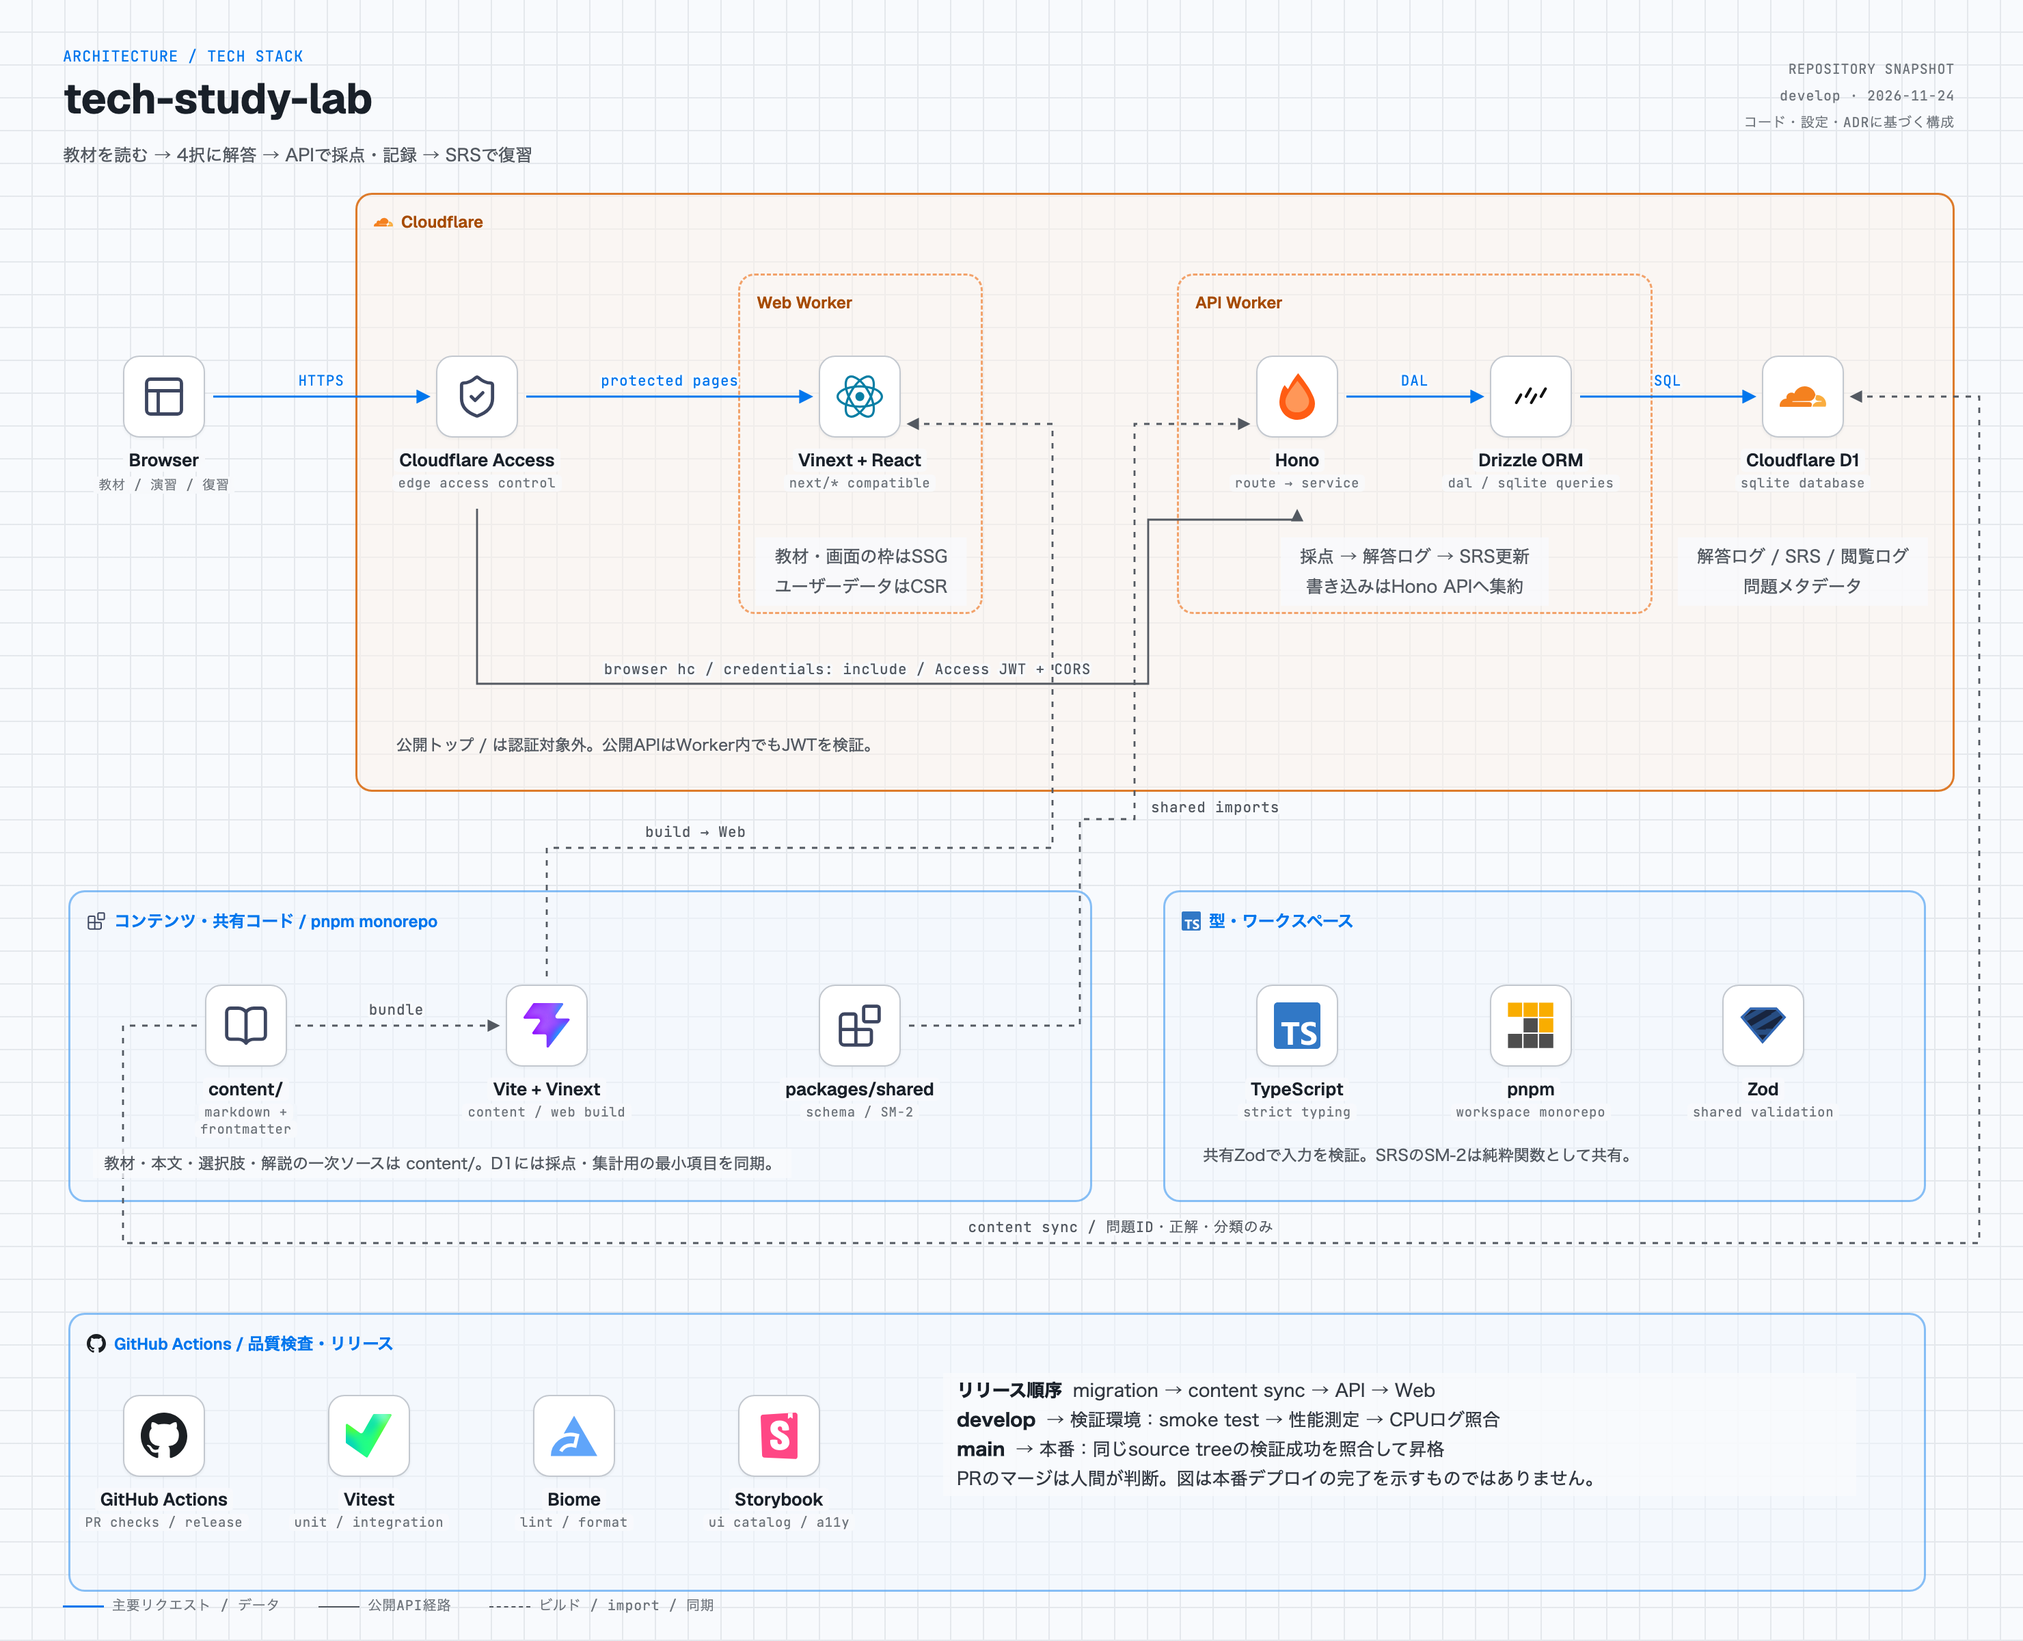
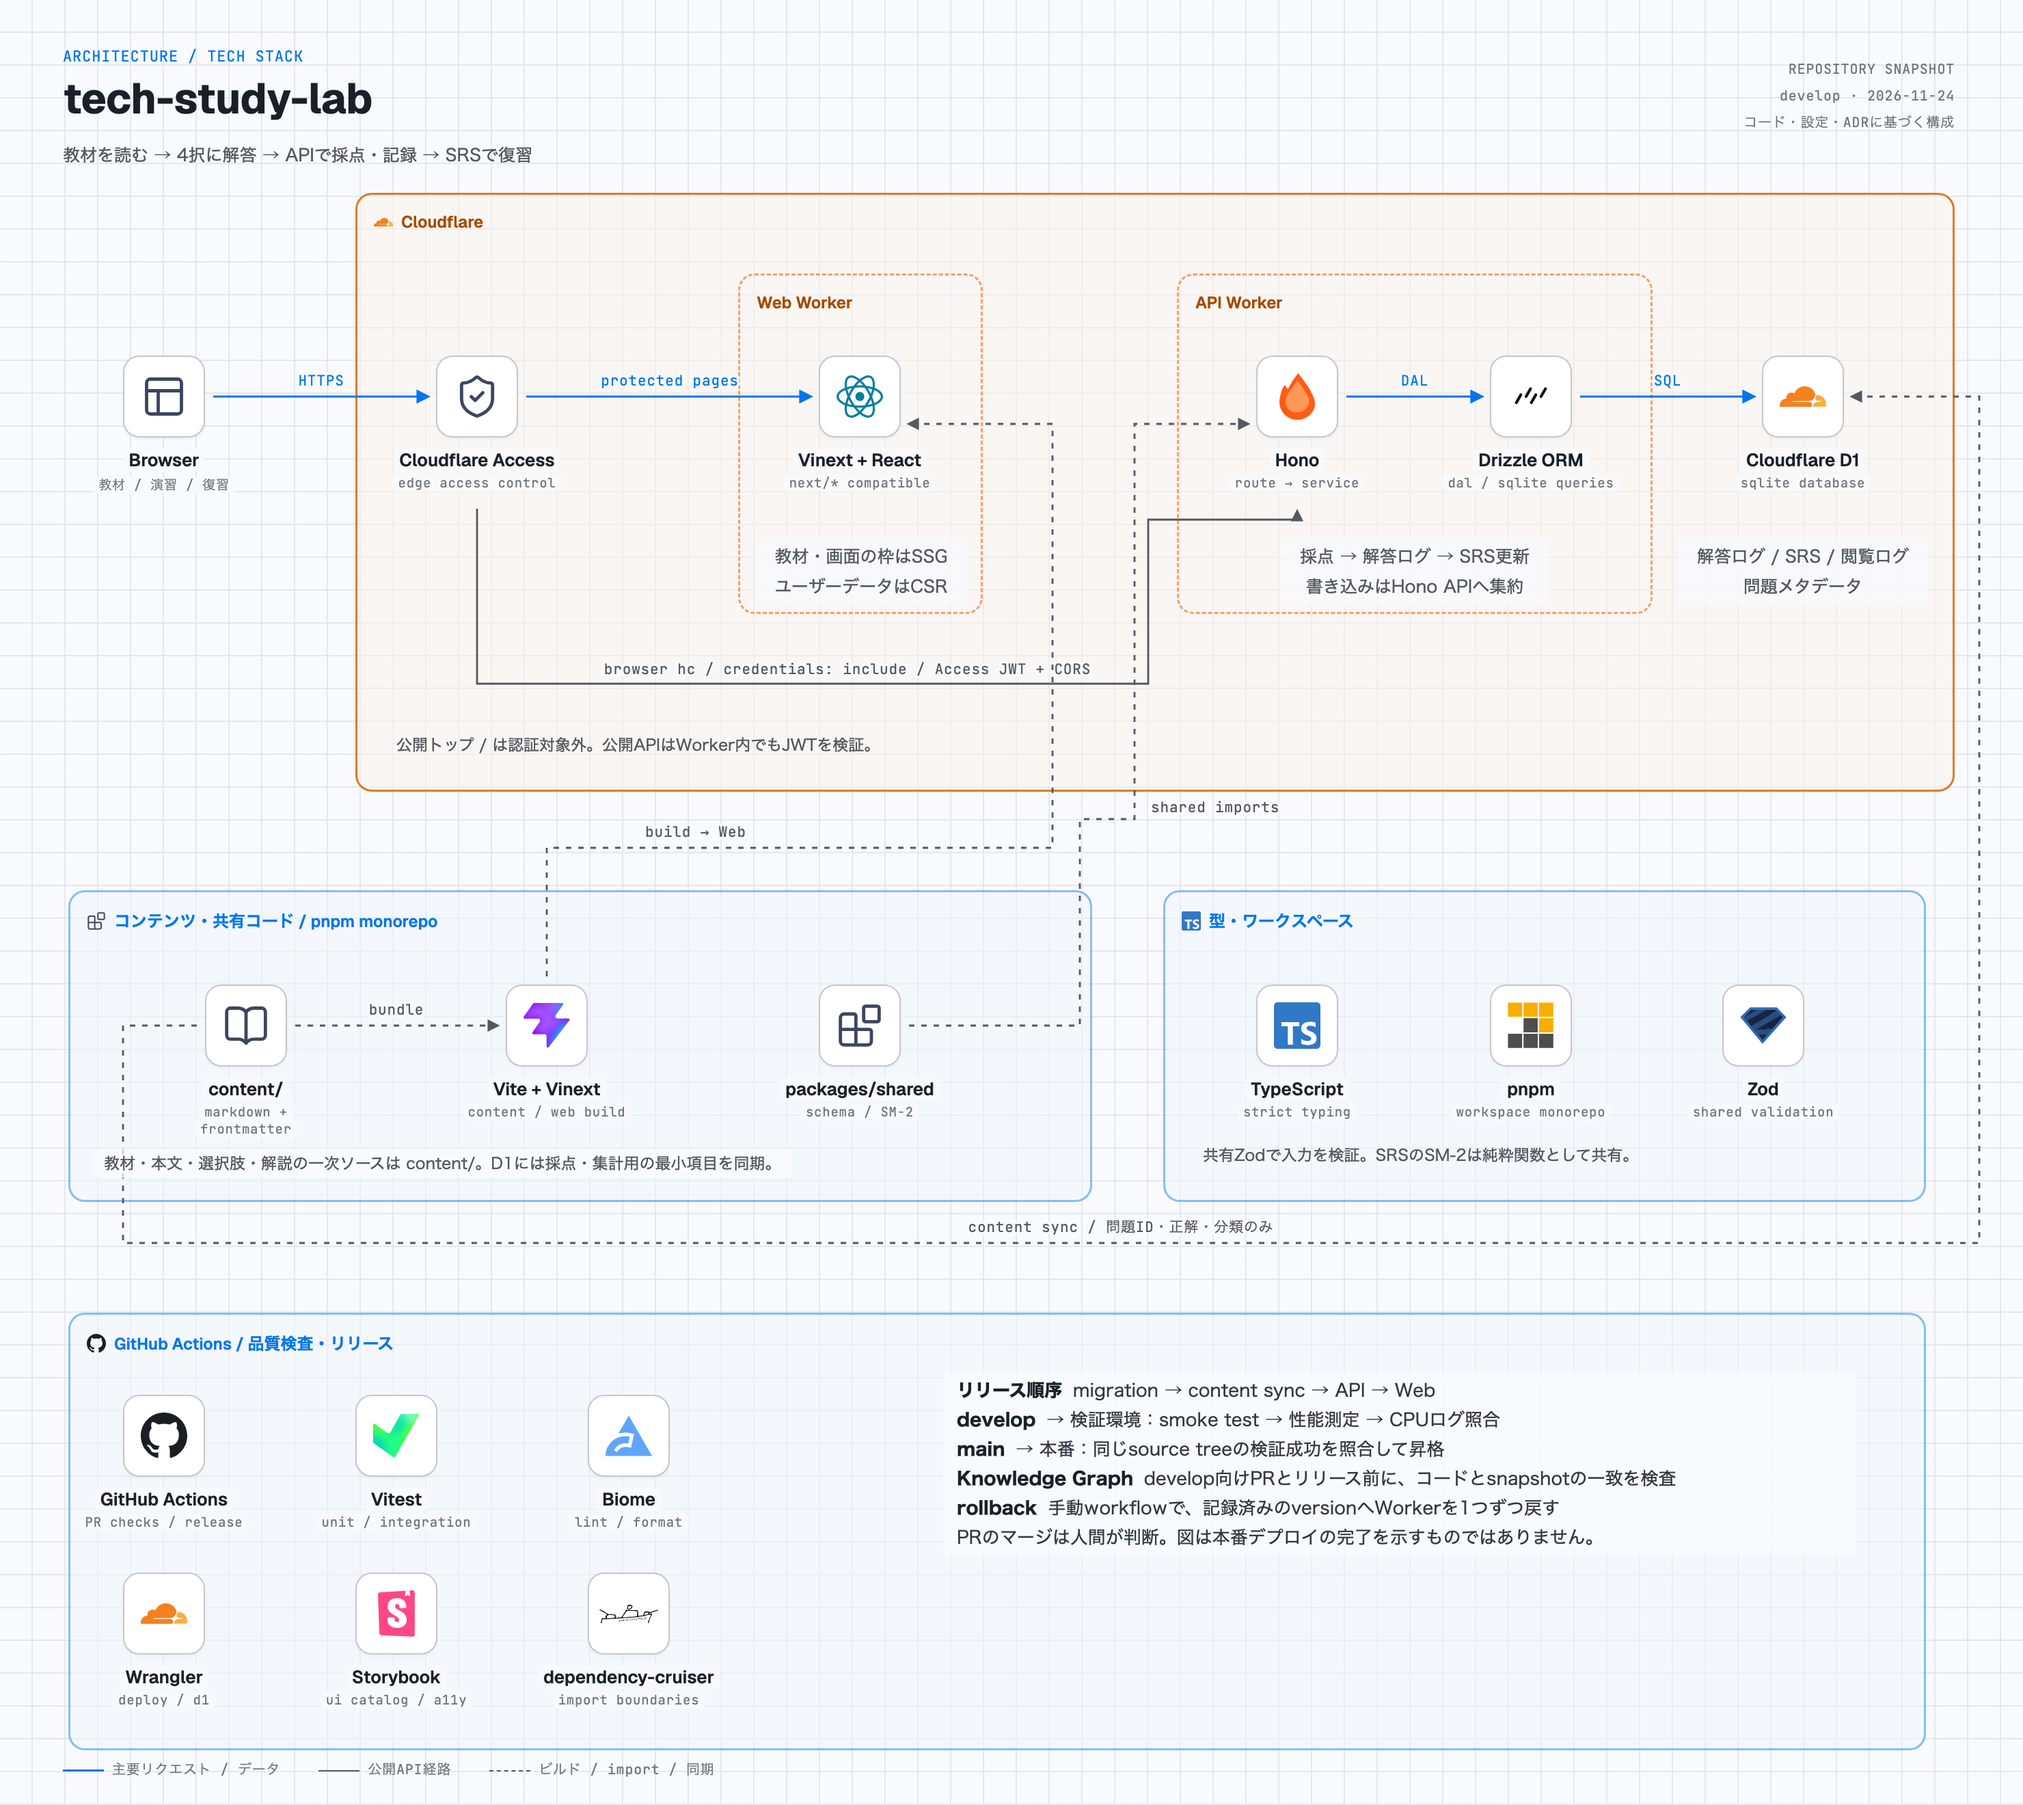
docs: README のアーキテクチャ図に GitHub Actions で実行する dependency-cruiser・Wrangler・Knowledge Graph・rollback を追加する (refs #318)
- dependency-cruiser（pnpm lint の import 境界検査）と Wrangler（deploy・D1・rollback）をノードとして追加し、品質検査グループを2段にした
- リリース手順に Knowledge Graph の検査と rollback workflow の行を追加

diff --git a/docs/images/readme/architecture.html b/docs/images/readme/architecture.html
@@ -82,7 +82,7 @@ h1 { font-family: var(--font-display); font-weight: 700; font-size: clamp(22px, 
 
 .scroller { overflow-x: auto; border: 1px solid var(--color-rule-2); border-radius: var(--radius-card); }
 /* CANVAS SIZE: set width/height here AND on svg.edges AND its viewBox — keep the three in sync */
-.canvas { position: relative; width: 1480px; height: 1200px; background: var(--color-paper);
+.canvas { position: relative; width: 1480px; height: 1320px; background: var(--color-paper);
   background-image:
     linear-gradient(var(--color-rule) 1px, transparent 1px),
     linear-gradient(90deg, var(--color-rule) 1px, transparent 1px);
@@ -133,7 +133,7 @@ h1 { font-family: var(--font-display); font-weight: 700; font-size: clamp(22px, 
 .node .name span, .node .role span { background: var(--color-veil); backdrop-filter: blur(1.5px);
   padding: 0 var(--space-xs); border-radius: 3px; -webkit-box-decoration-break: clone; box-decoration-break: clone; }
 
-svg.edges { position:absolute; inset:0; width:1480px; height:1200px; pointer-events:none; }
+svg.edges { position:absolute; inset:0; width:1480px; height:1320px; pointer-events:none; }
 .e  { stroke: var(--color-accent); stroke-width:1.6; fill:none; }   /* primary flow */
 .n  { stroke: var(--color-neutral); stroke-width:1.4; fill:none; }  /* internal */
 path.aws { stroke: var(--color-ink); stroke-width:1.6; fill:none; }
@@ -165,7 +165,7 @@ path.aws { stroke: var(--color-ink); stroke-width:1.6; fill:none; }
 .note.box { background: var(--color-veil); padding:2px 8px; }
 .release  { position:absolute; left:690px; top:1004px; width:668px; font-size:13px; line-height:21.5px; color: var(--color-ink-2); background: var(--color-veil); padding:2px 10px; }
 .release b { font-weight:700; color: var(--color-ink); margin-right:.6em; }
-.c-legend { position:absolute; left:46px; top:1166px; display:flex; gap:28px; font-family: var(--font-mono); font-size:10px; letter-spacing:.04em; color: var(--color-muted); align-items:center; }
+.c-legend { position:absolute; left:46px; top:1286px; display:flex; gap:28px; font-family: var(--font-mono); font-size:10px; letter-spacing:.04em; color: var(--color-muted); align-items:center; }
 .c-legend .sw { display:inline-block; width:30px; vertical-align:middle; margin-right:6px; border-top:1.6px solid var(--color-accent); }
 .c-legend .sw.n { border-color: var(--color-neutral); border-top-width:1.4px; }
 .c-legend .sw.dash { border-top-style:dashed; }
@@ -198,12 +198,12 @@ path.aws { stroke: var(--color-ink); stroke-width:1.6; fill:none; }
     <div class="group gb" style="left:851px; top:651px; width:558px; height:228px;">
[1 lines of base64/hex data omitted]
     </div>
-    <div class="group gb" style="left:50px; top:960px; width:1359px; height:204px;">
+    <div class="group gb" style="left:50px; top:960px; width:1359px; height:320px;">
[1 lines of base64/hex data omitted]
     </div>
 
     <!-- EDGES -->
-    <svg class="edges" viewBox="0 0 1480 1200" aria-hidden="true">
+    <svg class="edges" viewBox="0 0 1480 1320" aria-hidden="true">
       <defs>
         <marker id="ar" viewBox="0 0 10 10" refX="8" refY="5" markerWidth="6.5" markerHeight="6.5" orient="auto-start-reverse">
           <path d="M0 0 L10 5 L0 10 z" fill="context-stroke"/>
@@ -297,22 +297,32 @@ path.aws { stroke: var(--color-ink); stroke-width:1.6; fill:none; }
[1 lines of base64/hex data omitted]
       <div class="name"><span>GitHub Actions</span></div><div class="role"><span>PR checks / release</span></div>
     </div>
-    <div class="node" style="left:204px;top:1020px">
+    <div class="node" style="left:224px;top:1020px">
[1 lines of base64/hex data omitted]
       <div class="name"><span>Vitest</span></div><div class="role"><span>unit / integration</span></div>
     </div>
-    <div class="node" style="left:354px;top:1020px">
+    <div class="node" style="left:394px;top:1020px">
[1 lines of base64/hex data omitted]
       <div class="name"><span>Biome</span></div><div class="role"><span>lint / format</span></div>
     </div>
-    <div class="node" style="left:504px;top:1020px">
+    <div class="node" style="left:224px;top:1150px">
[1 lines of base64/hex data omitted]
       <div class="name"><span>Storybook</span></div><div class="role"><span>ui catalog / a11y</span></div>
+    </div>
+    <div class="node" style="left:54px;top:1150px">
[1 lines of base64/hex data omitted]
+      <div class="name"><span>Wrangler</span></div><div class="role"><span>deploy / d1</span></div>
+    </div>
+    <div class="node" style="left:380px;top:1150px;width:160px">
[1 lines of base64/hex data omitted]
+      <div class="name"><span>dependency-cruiser</span></div><div class="role"><span>import boundaries</span></div>
     </div>
     <div class="release">
       <div><b>リリース順序</b>migration → content sync → API → Web</div>
       <div><b>develop</b>→ 検証環境：smoke test → 性能測定 → CPUログ照合</div>
       <div><b>main</b>→ 本番：同じsource treeの検証成功を照合して昇格</div>
+      <div><b>Knowledge Graph</b>develop向けPRとリリース前に、コードとsnapshotの一致を検査</div>
+      <div><b>rollback</b>手動workflowで、記録済みのversionへWorkerを1つずつ戻す</div>
       <div>PRのマージは人間が判断。図は本番デプロイの完了を示すものではありません。</div>
     </div>
 
